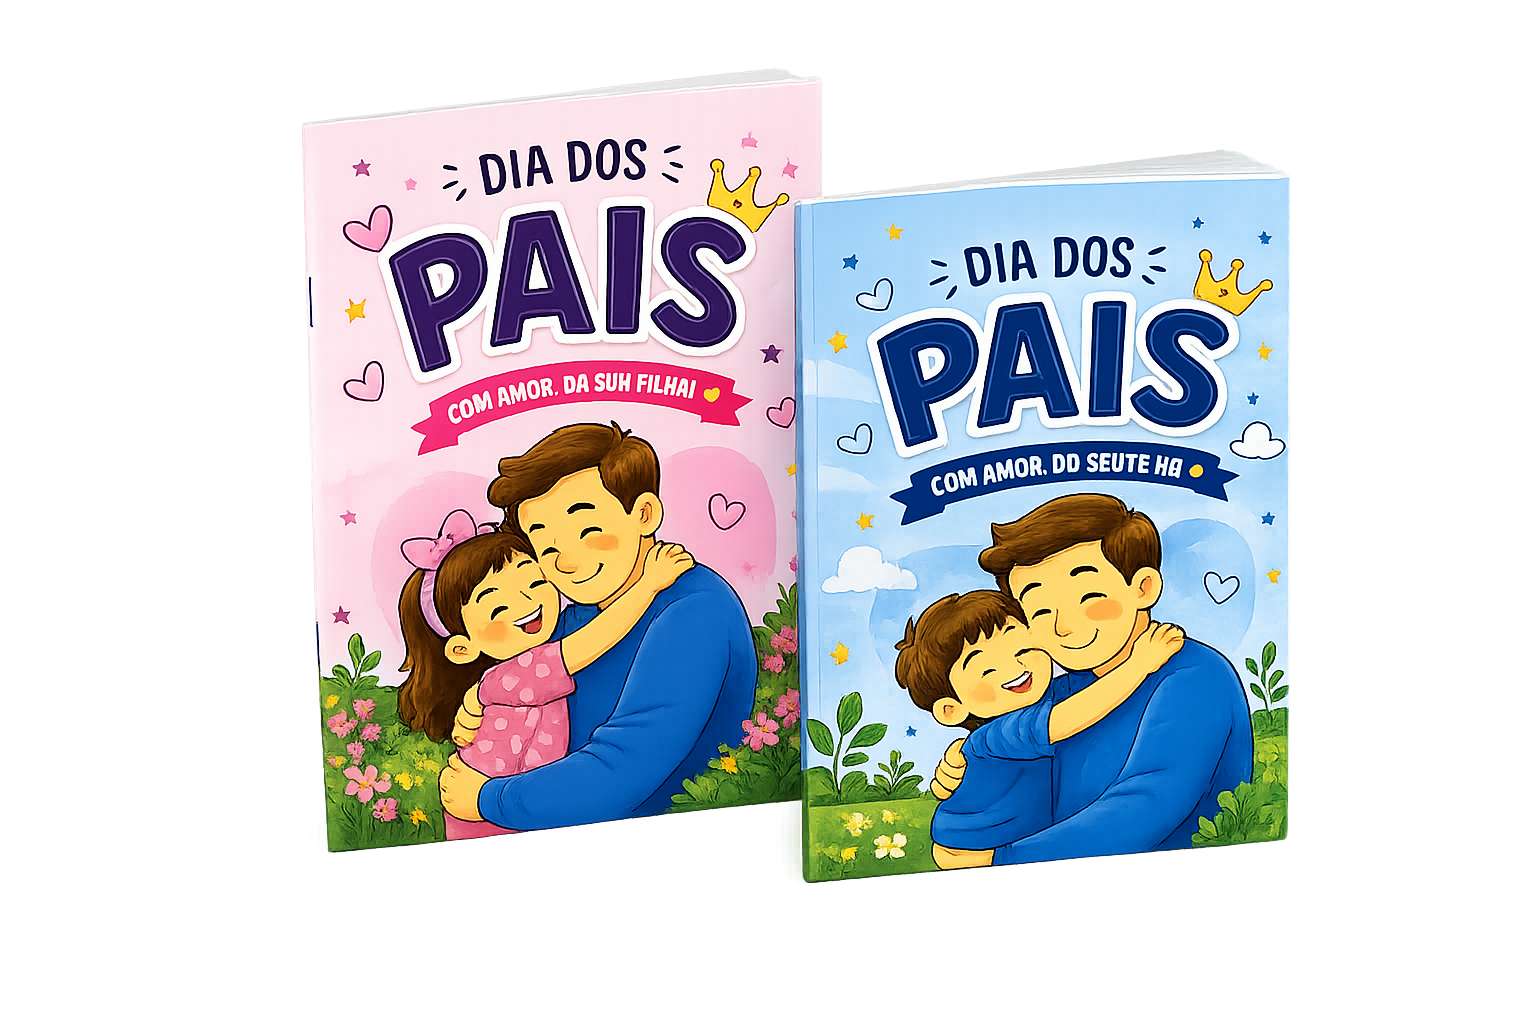
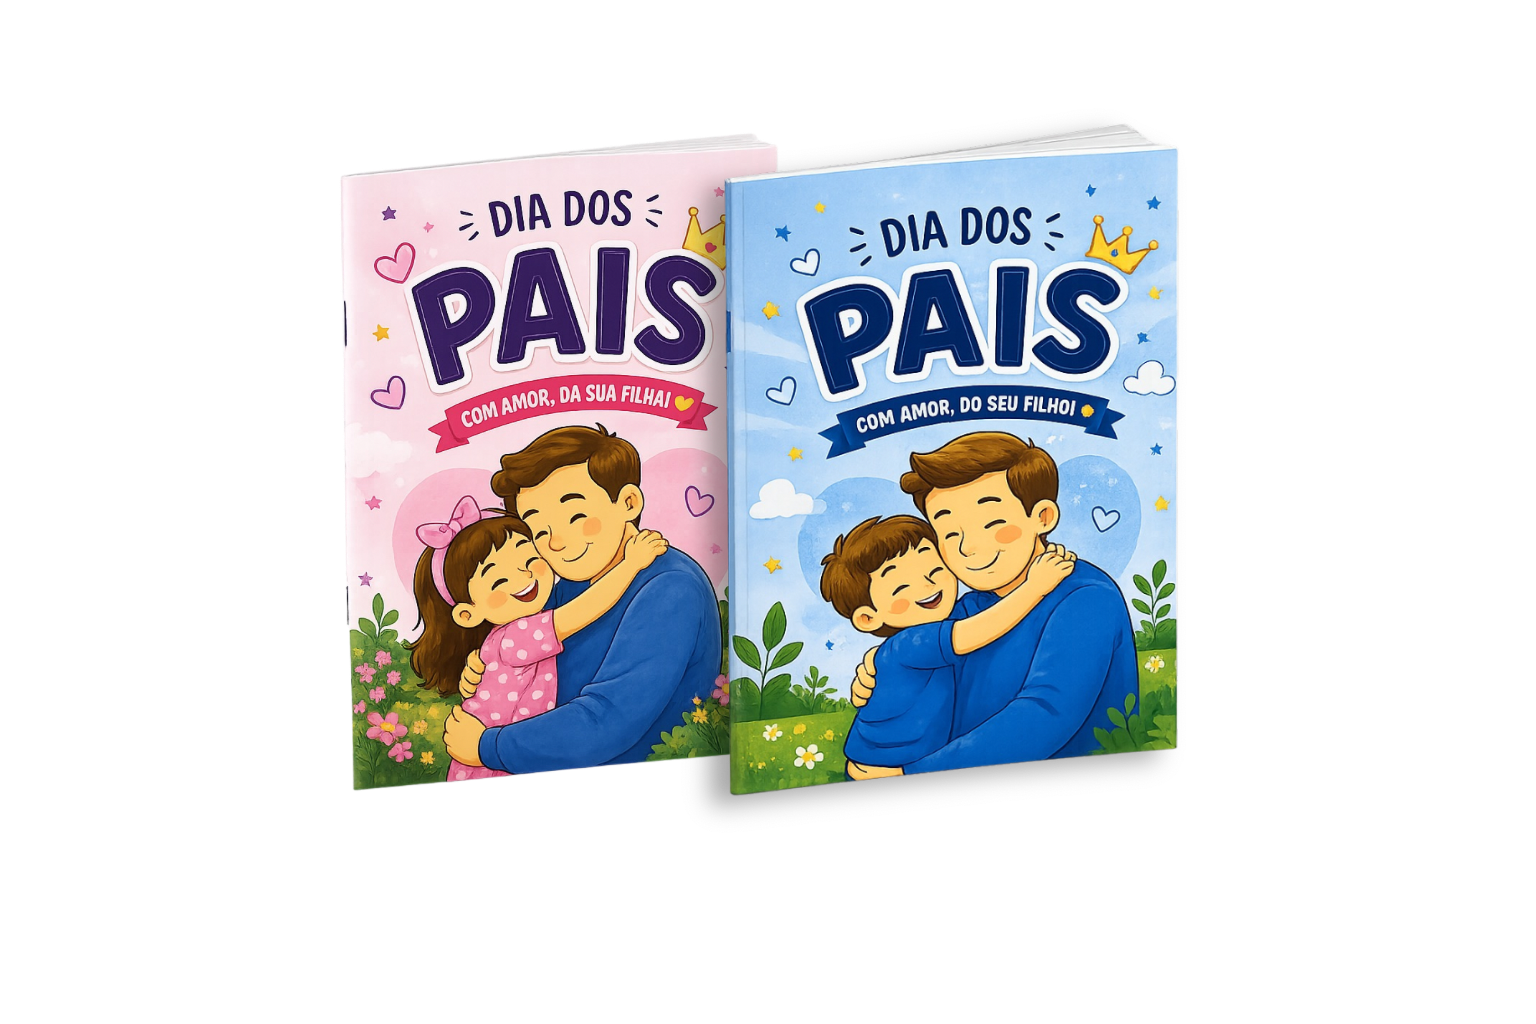
Update Fathers Day pack artwork

diff --git a/app/[[...slug]]/page.tsx b/app/[[...slug]]/page.tsx
@@ -583,7 +583,7 @@ function FathersDayPageContent({
                 alt="Logo Dia dos Pais"
                 width={1536}
                 height={1024}
-                className="absolute left-1/2 top-24 z-10 w-[14rem] -translate-x-1/2 rotate-[-4deg] drop-shadow-2xl sm:left-0 sm:top-0 sm:w-[20rem] sm:translate-x-0 lg:w-[22rem]"
+                className="absolute left-1/2 top-24 z-10 w-[15.5rem] max-w-[72vw] -translate-x-1/2 rotate-[-4deg] drop-shadow-2xl sm:left-0 sm:top-0 sm:w-[20rem] sm:max-w-none sm:translate-x-0 lg:w-[22rem]"
                 priority
               />
               <Image